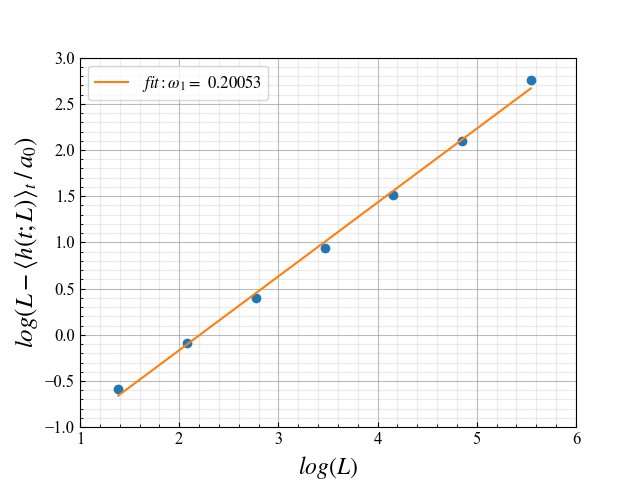
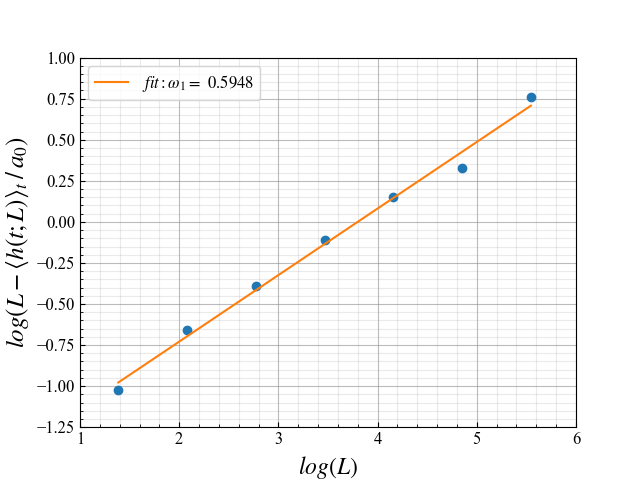
Corrected 2g and made other small corrections

diff --git a/main.py b/main.py
@@ -4,6 +4,7 @@ import matplotlib
 from collections import Counter
 import os
 from logbin_2020 import logbin
+from scipy.stats import skew, kurtosis
 
 
 def threshold_prob(p=0.5, n=1):
@@ -570,8 +571,9 @@ def task_2_e():
     h_avg = [h_4_avg, h_8_avg, h_16_avg, h_32_avg, h_64_avg, h_128_avg, h_256_avg]
     
     sites = [4, 8, 16, 32, 64, 128, 256]
-    # a_0 = h_256_avg / 256
-    a_0 = 1.83
+    a_0 = h_128_avg / 128
+    print(a_0)
+    a_0 = 1.732
     
     y = [l - h/a_0 for l, h in zip(sites, h_avg)]
     sites_log = np.log(sites)
@@ -600,7 +602,7 @@ def task_2_e():
     plt.xticks(fontsize=12, fontname='Times New Roman')
     plt.yticks(fontsize=12, fontname='Times New Roman')
     plt.xlim(1, 6)
-    plt.ylim(-1, 3)
+    plt.ylim(-1.25, 1)
     plt.savefig('Plots/Task2/task2e.png')
     plt.show()
 
@@ -655,51 +657,66 @@ def task_2_f():
 def task_2_g(compute=False, plot=True):
     if compute:
         probabilities = []
-
+        
         heights, slopes, thresholds = initialise(size=4, p=0.5)
-        heights, slopes, thresholds, h_1, sst, configs_counted, avalanches = drive_and_relax(heights, slopes, thresholds, grains=16000, p=0.5)
+        heights, slopes, thresholds, h_1, sst, configs_counted, avalanches = drive_and_relax(heights, slopes, thresholds, grains=64000, p=0.5)
+        h_1 = h_1[int(sst):]
+        map_4 = Counter(map(int, h_1))
         probabilities_4 = []
-        k = [k for k in configs_counted.keys()]
-        for i in range(0, 257):
-            probabilities_4.append(len([k for k in configs_counted.keys() if k[0] == i]) / len(configs_counted.keys()))
+        for i in range(0, 513):
+            probabilities_4.append(map_4[i]/sum(map_4.values()) if i in map_4.keys() else 0)
         print('Done with 4')
         heights, slopes, thresholds = initialise(size=8, p=0.5)
-        heights, slopes, thresholds, h_1, sst, configs_counted, avalanches = drive_and_relax(heights, slopes, thresholds, grains=32000, p=0.5)
+        heights, slopes, thresholds, h_1, sst, configs_counted, avalanches = drive_and_relax(heights, slopes, thresholds, grains=64000, p=0.5)
+        h_1 = h_1[int(sst):]
+        map_8 = Counter(map(int, h_1))
         probabilities_8 = []
-        k = [k for k in configs_counted.keys()]
-        for i in range(0, 257):
-            probabilities_8.append(len([k for k in configs_counted.keys() if k[0] == i]) / len(configs_counted.keys()))
+        for i in range(0, 513):
+            probabilities_8.append(map_8[i]/sum(map_8.values()) if i in map_8.keys() else 0)
         print('Done with 8')
         heights, slopes, thresholds = initialise(size=16, p=0.5)
         heights, slopes, thresholds, h_1, sst, configs_counted, avalanches = drive_and_relax(heights, slopes, thresholds, grains=64000, p=0.5)
+        h_1 = h_1[int(sst):]
+        map_16 = Counter(map(int, h_1))
         probabilities_16 = []
-        k = [k for k in configs_counted.keys()]
-        for i in range(0, 257):
-            probabilities_16.append(len([k for k in configs_counted.keys() if k[0] == i]) / len(configs_counted.keys()))
+        for i in range(0, 513):
+            probabilities_16.append(map_16[i]/sum(map_16.values()) if i in map_16.keys() else 0)
         print('Done with 16')
         heights, slopes, thresholds = initialise(size=32, p=0.5)
         heights, slopes, thresholds, h_1, sst, configs_counted, avalanches = drive_and_relax(heights, slopes, thresholds, grains=64000, p=0.5)
+        h_1 = h_1[int(sst):]
+        map_32 = Counter(map(int, h_1))
         probabilities_32 = []
-        k = [k for k in configs_counted.keys()]
-        for i in range(0, 257):
-            probabilities_32.append(len([k for k in configs_counted.keys() if k[0] == i]) / len(configs_counted.keys()))
+        for i in range(0, 513):
+            probabilities_32.append(map_32[i]/sum(map_32.values()) if i in map_32.keys() else 0)
         print('Done with 32')
         heights, slopes, thresholds = initialise(size=64, p=0.5)
         heights, slopes, thresholds, h_1, sst, configs_counted, avalanches = drive_and_relax(heights, slopes, thresholds, grains=100000, p=0.5)
+        h_1 = h_1[int(sst):]
+        map_64 = Counter(map(int, h_1))
         probabilities_64 = []
-        k = [k for k in configs_counted.keys()]
-        for i in range(0, 257):
-            probabilities_64.append(len([k for k in configs_counted.keys() if k[0] == i]) / len(configs_counted.keys()))
+        for i in range(0, 513):
+            probabilities_64.append(map_64[i]/sum(map_64.values()) if i in map_64.keys() else 0)
         print('Done with 64')
         heights, slopes, thresholds = initialise(size=128, p=0.5)
         heights, slopes, thresholds, h_1, sst, configs_counted, avalanches = drive_and_relax(heights, slopes, thresholds, grains=100000, p=0.5)
+        h_1 = h_1[int(sst):]
+        map_128 = Counter(map(int, h_1))
         probabilities_128 = []
-        k = [k for k in configs_counted.keys()]
-        for i in range(0, 257):
-            probabilities_128.append(len([k for k in configs_counted.keys() if k[0] == i]) / len(configs_counted.keys()))
+        for i in range(0, 513):
+            probabilities_128.append(map_128[i]/sum(map_128.values()) if i in map_128.keys() else 0)
         print('Done with 128')
-        probabilities = [probabilities_4, probabilities_8, probabilities_16, probabilities_32, probabilities_64, probabilities_128]
+        heights, slopes, thresholds = initialise(size=256, p=0.5)
+        heights, slopes, thresholds, h_1, sst, configs_counted, avalanches = drive_and_relax(heights, slopes, thresholds, grains=128000, p=0.5)
+        h_1 = h_1[int(sst):]
+        map_256 = Counter(map(int, h_1))
+        probabilities_256 = []
+        for i in range(0, 513):
+            probabilities_256.append(map_256[i]/sum(map_256.values()) if i in map_256.keys() else 0)
+        print('Done with 256')
+        probabilities = [probabilities_4, probabilities_8, probabilities_16, probabilities_32, probabilities_64, probabilities_128, probabilities_256]
         np.save(os.path.join('Numpy Files', 'Task 2g'), np.array(probabilities))  # Save data in a .npy file
+
         
     if plot:
         h_1_4, sst_4 = np.load('Task 2a: L=4, p=0.5.npy', allow_pickle=True)
@@ -708,14 +725,16 @@ def task_2_g(compute=False, plot=True):
         h_1_32, sst_32 = np.load('Task 2a: L=32, p=0.5.npy', allow_pickle=True)
         h_1_64, sst_64 = np.load('Task 2a: L=64, p=0.5.npy', allow_pickle=True)
         h_1_128, sst_128 = np.load('Task 2a: L=128, p=0.5.npy', allow_pickle=True)
+        h_1_256, sst_256 = np.load('Task 2a: L=256, p=0.5.npy', allow_pickle=True)
         h_4_std = np.std(h_1_4[sst_4:][::4])
         h_8_std = np.std(h_1_8[sst_8:][::8])
         h_16_std = np.std(h_1_16[sst_16:][::16])
         h_32_std = np.std(h_1_32[sst_32:][::32])
         h_64_std = np.std(h_1_64[sst_64:][::64])
         h_128_std = np.std(h_1_128[sst_128:][::128])
+        h_256_std = np.std(h_1_256[sst_256:][::16])
 
-        h = np.linspace(0, 256, 257)
+        h = np.linspace(0, 512, 513)
         probabilities = np.load('Task 2g.npy', allow_pickle=True)
         probabilities_4 = probabilities[0]
         probabilities_8 = probabilities[1]
@@ -723,26 +742,30 @@ def task_2_g(compute=False, plot=True):
         probabilities_32 = probabilities[3]
         probabilities_64 = probabilities[4]
         probabilities_128 = probabilities[5]
+        probabilities_256 = probabilities[6]
         avg_4 = sum([p*x for p, x in zip(probabilities_4, h)])
         avg_8 = sum([p*x for p, x in zip(probabilities_8, h)])
         avg_16 = sum([p*x for p, x in zip(probabilities_16, h)])
         avg_32 = sum([p*x for p, x in zip(probabilities_32, h)])
         avg_64 = sum([p*x for p, x in zip(probabilities_64, h)])
         avg_128 = sum([p*x for p, x in zip(probabilities_128, h)])
+        avg_256 = sum([p*x for p, x in zip(probabilities_256, h)])
+
         fig, ax = plt.subplots()
         params = {'legend.fontsize': 12}
-        plt.rcParams.update(params)
+        plt.rcParams.update(params) 
         matplotlib.rcParams['mathtext.fontset'] = 'custom'
         matplotlib.rcParams['mathtext.rm'] = 'Bitstream Vera Sans'
         matplotlib.rcParams['mathtext.it'] = 'Bitstream Vera Sans:italic'
         matplotlib.rcParams['mathtext.bf'] = 'Bitstream Vera Sans:bold'
         matplotlib.rcParams['mathtext.fontset'] = 'stix'
-        plt.plot(h, probabilities_4, label=r'$L=4, \: \langle{h_4}\rangle = $' + r'${}$'.format(str(round(avg_4, 2))))
-        plt.plot(h, probabilities_8, label=r'$L=8, \: \langle{h_8}\rangle = $' + r'${}$'.format(str(round(avg_8, 2))))
+        plt.plot(h, probabilities_4, label=r'$L=4, \: \langle{h_{4}}\rangle = $' + r'${}$'.format(str(round(avg_4, 2))))
+        plt.plot(h, probabilities_8, label=r'$L=8, \: \langle{h_{8}}\rangle = $' + r'${}$'.format(str(round(avg_8, 2))))
         plt.plot(h, probabilities_16, label=r'$L=16, \: \langle{h_{16}}\rangle = $' + r'${}$'.format(str(round(avg_16, 2))))
         plt.plot(h, probabilities_32, label=r'$L=32, \: \langle{h_{32}}\rangle = $' + r'${}$'.format(str(round(avg_32, 2))))
         plt.plot(h, probabilities_64, label=r'$L=64, \: \langle{h_{64}}\rangle = $' + r'${}$'.format(str(round(avg_64, 2))))
         plt.plot(h, probabilities_128, label=r'$L=128, \: \langle{h_{128}}\rangle = $' + r'${}$'.format(str(round(avg_128, 2))))
+        plt.plot(h, probabilities_256, label=r'$L=256, \: \langle{h_{256}}\rangle = $' + r'${}$'.format(str(round(avg_256, 2))))
         plt.legend()
         plt.xlabel('$\it{h}$', fontname='Times New Roman', fontsize=17)
         plt.ylabel(r'$\it{P(h; L)}$', fontname='Times New Roman', fontsize=17)
@@ -753,8 +776,8 @@ def task_2_g(compute=False, plot=True):
         plt.grid(b=True, which='minor', color='#999999', linestyle='-', alpha=0.2)
         plt.xticks(fontsize=12, fontname='Times New Roman')
         plt.yticks(fontsize=12, fontname='Times New Roman')
-        plt.xlim(0, 250)
-        plt.ylim(0, 0.4)
+        plt.xlim(0, 500)
+        plt.ylim(0, 0.5)
         plt.savefig('Plots/Task2/task2g_b_i.png')
         plt.show()
 
@@ -766,14 +789,36 @@ def task_2_g(compute=False, plot=True):
         matplotlib.rcParams['mathtext.it'] = 'Bitstream Vera Sans:italic'
         matplotlib.rcParams['mathtext.bf'] = 'Bitstream Vera Sans:bold'
         matplotlib.rcParams['mathtext.fontset'] = 'stix'
-        plt.plot(h/avg_4, probabilities_4*h_4_std, label=r'$L=4, \: \langle{h_4}\rangle = $' + r'$5.63$')
-        plt.plot(h/avg_8, probabilities_8*h_8_std, label=r'$L=8, \: \langle{h_8}\rangle = $' + r'$12.47$')
-        plt.plot(h/avg_16, probabilities_16*h_16_std, label=r'$L=16, \: \langle{h_{16}}\rangle = $' + r'$26.47$')
-        plt.plot(h/avg_32, probabilities_32*h_32_std, label=r'$L=32, \: \langle{h_{32}}\rangle = $' + r'$53.93$')
-        plt.plot(h/avg_64, probabilities_64*h_64_std, label=r'$L=64, \: \langle{h_{64}}\rangle = $' + r'$108.85$')
-        plt.plot(h/avg_128, probabilities_128*h_128_std, label=r'$L=128, \: \langle{h_{128}}\rangle = $' + r'$219.47$')
+        p_4_non_zero = [x for x in probabilities_4*h_4_std if x != 0]
+        p_8_non_zero = [x for x in probabilities_8*h_8_std if x != 0]
+        p_16_non_zero = [x for x in probabilities_16*h_16_std if x != 0]
+        p_32_non_zero = [x for x in probabilities_32*h_32_std if x != 0]
+        p_64_non_zero = [x for x in probabilities_64*h_64_std if x != 0]
+        p_128_non_zero = [x for x in probabilities_128*h_128_std if x != 0]
+        p_256_non_zero = [x for x in probabilities_256*h_256_std if x != 0]
+        skew_4, kur_4 = skew(p_4_non_zero), kurtosis(p_4_non_zero)
+        skew_8, kur_8 = skew(p_8_non_zero), kurtosis(p_8_non_zero)
+        skew_16, kur_16 = skew(p_16_non_zero), kurtosis(p_16_non_zero)
+        skew_32, kur_32 = skew(p_32_non_zero), kurtosis(p_32_non_zero)
+        skew_64, kur_64 = skew(p_64_non_zero), kurtosis(p_64_non_zero)
+        skew_128, kur_128 = skew(p_128_non_zero), kurtosis(p_128_non_zero)
+        skew_256, kur_256 = skew(p_256_non_zero), kurtosis(p_256_non_zero)
+
+        x = np.linspace(-4, 8, 1000)
+        f = lambda x: 1/(np.sqrt(2*np.pi)) * np.exp(-0.5*x**2)
+        y = f(x)
+
+        plt.plot((h-avg_4)/h_4_std, probabilities_4*h_4_std, 'x', label=r'$L=4:$' + ' ' + r'$s=$' + r'${}$'.format(str(round(skew_4, 2))) + ', ' + r'$k=$' + r'${}$'.format(str(round(kur_4, 2))))
+        plt.plot((h-avg_8)/h_8_std, probabilities_8*h_8_std, 'x', label=r'$L=8:$' + ' ' + r'$s=$' + r'${}$'.format(str(round(skew_8, 2))) + ', ' + r'$k=$' + r'${}$'.format(str(round(kur_8, 2))))
+        plt.plot((h-avg_16)/h_16_std, probabilities_16*h_16_std, 'x', label=r'$L=16:$' + ' ' + r'$s=$' + r'${}$'.format(str(round(skew_16, 2))) + ', ' + r'$k=$' + r'${}$'.format(str(round(kur_16, 2))))
+        plt.plot((h-avg_32)/h_32_std, probabilities_32*h_32_std, 'x', label=r'$L=32:$' + ' ' + r'$s=$' + r'${}$'.format(str(round(skew_32, 2))) + ', ' + r'$k=$' + r'${}$'.format(str(round(kur_32, 2))))
+        plt.plot((h-avg_64)/h_64_std, probabilities_64*h_64_std, 'x', label=r'$L=64:$' + ' ' + r'$s=$' + r'${}$'.format(str(round(skew_64, 2))) + ', ' + r'$k=$' + r'${}$'.format(str(round(kur_64, 2))))
+        plt.plot((h-avg_128)/h_128_std, probabilities_128*h_128_std, 'x', label=r'$L=128:$' + ' ' + r'$s=$' + r'${}$'.format(str(round(skew_128, 2))) + ', ' + r'$k=$' + r'${}$'.format(str(round(kur_128, 2))))
+        plt.plot((h-avg_256)/h_256_std, probabilities_256*h_256_std, 'x', label=r'$L=256:$' + ' ' + r'$s=$' + r'${}$'.format(str(round(skew_256, 2))) + ', ' + r'$k=$' + r'${}$'.format(str(round(kur_256, 2))))
+
+        plt.plot(x, y, '--', label=r'$Normal: \: \mu=0, \: \sigma=1$', linewidth=2, alpha=0.7, color='k')
         plt.legend()
-        plt.xlabel(r'$\it{h \: / \: \langle{h}\rangle}$', fontname='Times New Roman', fontsize=17)
+        plt.xlabel(r'$\it{(h - \langle{h}\rangle) \: / \: σ_h}$', fontname='Times New Roman', fontsize=17)
         plt.ylabel(r'$\it{P(h; L)\: * \: σ_h}$', fontname='Times New Roman', fontsize=17)
         plt.minorticks_on()
         ax.tick_params(direction='in')
@@ -782,7 +827,7 @@ def task_2_g(compute=False, plot=True):
         plt.grid(b=True, which='minor', color='#999999', linestyle='-', alpha=0.2)
         plt.xticks(fontsize=12, fontname='Times New Roman')
         plt.yticks(fontsize=12, fontname='Times New Roman')
-        plt.xlim(0, 2)
+        plt.xlim(-4, 8)
         plt.ylim(0, 0.45)
         plt.savefig('Plots/Task2/task2g_b_ii.png')
         plt.show()
@@ -1022,8 +1067,8 @@ if __name__ == '__main__':
     # task_2_a(compute=False, plot=True)
     # task_2_b(compute=False, plot=True)
     # task_2_d(compute=False, plot=True)
-    # task_2_e()
+    task_2_e()
     # task_2_f()
     # task_2_g(compute=False, plot=True)
     # task_3_a(compute=False, plot=True)
-    task_3_b()
+    # task_3_b()
